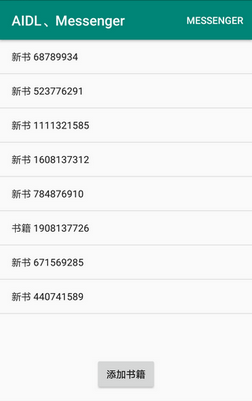
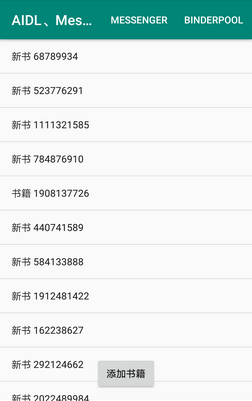
完成了Binder连接池的示例

diff --git a/Samples/app/src/main/java/me/lynnchurch/samples/aidl/BinderManager.java b/Samples/app/src/main/java/me/lynnchurch/samples/aidl/BinderManager.java
@@ -1,0 +1,121 @@
+package me.lynnchurch.samples.aidl;
+
+import android.content.ComponentName;
+import android.content.Context;
+import android.content.Intent;
+import android.content.ServiceConnection;
+import android.os.IBinder;
+import android.os.RemoteException;
+import android.util.Log;
+
+import java.util.concurrent.CountDownLatch;
+
+import me.lynnchurch.samples.service.BinderPoolService;
+
+public class BinderManager {
+    private static final String TAG = BinderManager.class.getSimpleName();
+    public static final int BINDER_MODULE_A = 0;
+    public static final int BINDER_MODULE_B = 1;
+
+    private static volatile BinderManager mInstance;
+    private Context mContext;
+    private CountDownLatch mCountDownLatch = new CountDownLatch(1);
+    private IBinderPool mBinderPool;
+
+    private BinderManager(Context context) {
+        mContext = context.getApplicationContext();
+        bindService();
+    }
+
+    public static BinderManager getInstance(Context context) {
+        if (null == mInstance) {
+            synchronized (BinderManager.class) {
+                if (null == mInstance) {
+                    mInstance = new BinderManager(context);
+                }
+            }
+        }
+        return mInstance;
+    }
+
+    private void bindService() {
+        mContext.bindService(new Intent(mContext, BinderPoolService.class), mServiceConnection, Context.BIND_AUTO_CREATE);
+        try {
+            mCountDownLatch.await();
+        } catch (InterruptedException e) {
+            Log.e(TAG, e.getMessage(), e);
+        }
+    }
+
+    private ServiceConnection mServiceConnection = new ServiceConnection() {
+        @Override
+        public void onServiceConnected(ComponentName name, IBinder service) {
+            mBinderPool = IBinderPool.Stub.asInterface(service);
+            try {
+                mBinderPool.asBinder().linkToDeath(mDeathRecipient, 0);
+            } catch (RemoteException e) {
+                Log.e(TAG, e.getMessage(), e);
+            }
+            mCountDownLatch.countDown();
+        }
+
+        @Override
+        public void onServiceDisconnected(ComponentName name) {
+
+        }
+    };
+
+    private IBinder.DeathRecipient mDeathRecipient = new IBinder.DeathRecipient() {
+        @Override
+        public void binderDied() {
+            mBinderPool.asBinder().unlinkToDeath(mDeathRecipient, 0);
+            mBinderPool = null;
+            bindService();
+        }
+    };
+
+    public IBinder queryBinder(int binderCode) {
+        IBinder binder = null;
+        if (null != mBinderPool) {
+            try {
+                binder = mBinderPool.queryBinder(binderCode);
+            } catch (RemoteException e) {
+                Log.e(TAG, e.getMessage(), e);
+            }
+        }
+        return binder;
+    }
+
+    public static class BinderPoolImpl extends IBinderPool.Stub {
+
+        @Override
+        public IBinder queryBinder(int binderCode) {
+            IBinder binder = null;
+            switch (binderCode) {
+                case BINDER_MODULE_A:
+                    binder = new ModuleAImpl();
+                    break;
+                case BINDER_MODULE_B:
+                    binder = new ModuleBImpl();
+                    break;
+            }
+            return binder;
+        }
+    }
+
+    public static class ModuleAImpl extends IModuleA.Stub {
+
+        @Override
+        public String hello(String name) {
+            return "Hello " + name + " ! (from Module A)";
+        }
+    }
+
+    public static class ModuleBImpl extends IModuleB.Stub {
+
+        @Override
+        public String hello(String name) {
+            return "Hello " + name + " ! (from Module B)";
+        }
+    }
+}

diff --git a/Samples/app/src/main/java/me/lynnchurch/samples/activity/BinderPoolActivity.java b/Samples/app/src/main/java/me/lynnchurch/samples/activity/BinderPoolActivity.java
@@ -1,0 +1,68 @@
+package me.lynnchurch.samples.activity;
+
+import android.os.Bundle;
+import android.view.View;
+import android.widget.Toast;
+
+import io.reactivex.Single;
+import io.reactivex.SingleOnSubscribe;
+import io.reactivex.android.schedulers.AndroidSchedulers;
+import io.reactivex.schedulers.Schedulers;
+import me.lynnchurch.samples.R;
+import me.lynnchurch.samples.aidl.BinderManager;
+import me.lynnchurch.samples.aidl.IModuleA;
+import me.lynnchurch.samples.aidl.IModuleB;
+
+public class BinderPoolActivity extends BaseActivity {
+    private IModuleA mModuleA;
+    private IModuleB mModuleB;
+
+    @Override
+    protected void onCreate(Bundle savedInstanceState) {
+        super.onCreate(savedInstanceState);
+        init();
+    }
+
+    private void init() {
+        getSupportActionBar().setTitle(BinderPoolActivity.class.getSimpleName());
+        initModules();
+    }
+
+    private void initModules() {
+        new Thread(() -> {
+            mModuleA = IModuleA.Stub.asInterface(BinderManager.getInstance(this).queryBinder(BinderManager.BINDER_MODULE_A));
+            mModuleB = IModuleB.Stub.asInterface(BinderManager.getInstance(this).queryBinder(BinderManager.BINDER_MODULE_B));
+        }).start();
+    }
+
+    @Override
+    protected int getLayoutResID() {
+        return R.layout.activity_binder_pool;
+    }
+
+    public void accessModuleA(View v) {
+        if (null == mModuleA) {
+            toast("Module A 未准备好", Toast.LENGTH_SHORT);
+            return;
+        }
+        Single.create((SingleOnSubscribe<String>) emitter -> {
+            String msg = mModuleA.hello("Lynn");
+            emitter.onSuccess(msg);
+        }).subscribeOn(Schedulers.newThread())
+                .observeOn(AndroidSchedulers.mainThread())
+                .subscribe(msg -> toast(msg, Toast.LENGTH_LONG));
+    }
+
+    public void accessModuleB(View v) {
+        if (null == mModuleB) {
+            toast("Module B 未准备好", Toast.LENGTH_SHORT);
+            return;
+        }
+        Single.create((SingleOnSubscribe<String>) emitter -> {
+            String msg = mModuleB.hello("Jack");
+            emitter.onSuccess(msg);
+        }).subscribeOn(Schedulers.newThread())
+                .observeOn(AndroidSchedulers.mainThread())
+                .subscribe(msg -> toast(msg, Toast.LENGTH_LONG));
+    }
+}

diff --git a/Samples/app/src/main/java/me/lynnchurch/samples/activity/AIDLActivity.java b/Samples/app/src/main/java/me/lynnchurch/samples/activity/AIDLActivity.java
@@ -116,7 +116,7 @@ public class AIDLActivity extends BaseActivity {
 
     @Override
     public boolean onCreateOptionsMenu(Menu menu) {
-        getMenuInflater().inflate(R.menu.messenger, menu);
+        getMenuInflater().inflate(R.menu.aidl, menu);
         return true;
     }
 
@@ -126,6 +126,8 @@ public class AIDLActivity extends BaseActivity {
             case R.id.messenger:
                 startActivity(new Intent(AIDLActivity.this, MessengerActivity.class));
                 break;
+            case R.id.binderPool:
+                startActivity(new Intent(AIDLActivity.this,BinderPoolActivity.class));
             default:
                 return onContextItemSelected(item);
         }

diff --git a/Samples/app/src/main/java/me/lynnchurch/samples/service/BinderPoolService.java b/Samples/app/src/main/java/me/lynnchurch/samples/service/BinderPoolService.java
@@ -1,0 +1,20 @@
+package me.lynnchurch.samples.service;
+
+import android.app.Service;
+import android.content.Intent;
+import android.os.IBinder;
+import android.os.RemoteException;
+
+import me.lynnchurch.samples.aidl.BinderManager;
+import me.lynnchurch.samples.aidl.IBinderPool;
+
+public class BinderPoolService extends Service {
+    public BinderPoolService() {
+    }
+
+    @Override
+    public IBinder onBind(Intent intent) {
+        return new BinderManager.BinderPoolImpl();
+    }
+
+}

diff --git a/README.md b/README.md
@@ -26,15 +26,17 @@ Activity：A(standard)、B(singleTop)、C(singleTask)、D(singleInstance)
 
 * allowTaskRearenting属性是这样的：假定应用A打开应用B的Activity(allowTaskRearenting属性为ture)，那么该Activity会处于应用B的任务栈中，如果该Activity的allowTaskRearenting属性为false，则会处于应用A的任务栈中。从所处任务栈这一点来看，效果和设置Intent.FLAG_ACTIVITY_NEW_TASK打开该Activity是一样的，区别在按返回键上，allowTaskRearenting属性为ture的Activity按返回键时会自动创建应用的入口Activity，而仅设置Intent.FLAG_ACTIVITY_NEW_TASK的Activity会直接被结束
 
-## AIDL、Messenger
+## AIDL、Messenger、BinderPool
 
-![AIDL](images/AIDL.png)  ![Messenger](images/Messenger.png)
+![AIDL](images/AIDL.png)  ![Messenger](images/Messenger.png) ![BinderPool](images/BinderPool.png)
 
 * AIDL文件其实只是方便我们写Binder接口而已，用AIDL和Messenger都能进行IPC，AIDL用来RPC，Messenger专注收发消息
 
 * AIDL中用于传输的类要实现Parcelable接口且位于java目录中，还要创建一个同名的aidl文件（用于映射传输类）位于aidl资源目录中，两个文件得保持一致的包名
 
 * AIDL中使用的aidl文件都得用import导入进来，用到的参数除了基本数据类型都得声明方向（in、out、inout）
+
+* 通常一个Service对应一个AIDL接口，当我们有大量的AIDL接口时就得创建相应数量的Service，这会造成Service资源的浪费，大量的Service也会使应用显得很臃肿。而通过BinderPool就可以使一个Service对应多个AIDL接口，当我们连接服务后只会获得一个IBinder,但是通过这个IBinder可以返回多个IBinder，这样就解决了一个Service对应多个AIDL接口的问题。
 
 ## ContentProvider
 
